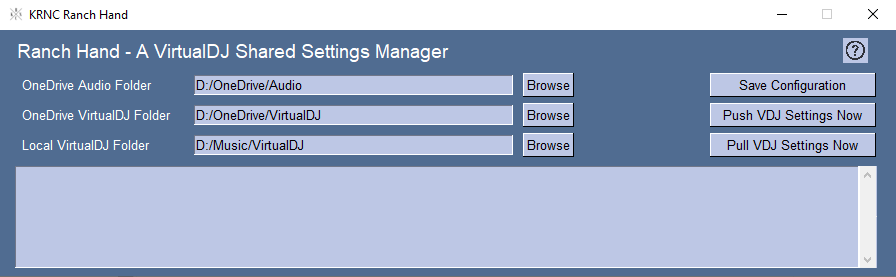
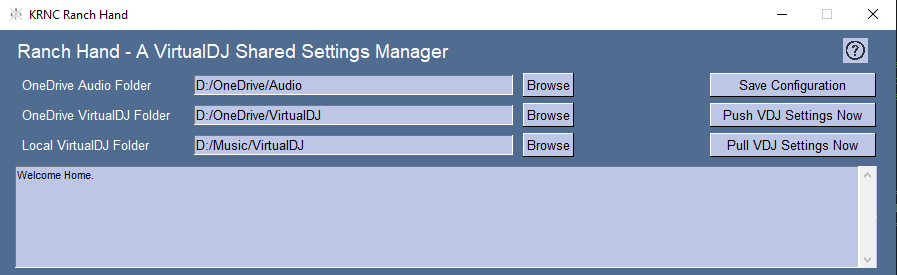
updated app image, added 'Welcome Home.' printout

diff --git a/RanchHand/app.py b/RanchHand/app.py
@@ -108,6 +108,8 @@ window = sg.Window('KRNC Ranch Hand', mainlayout, icon=icon)
 def app():
     global window
     window.finalize()
+    # Print KRNC Welcome Message
+    print("Welcome Home.")
     # Test for Valid Configuration File
     if not config.sections():
         print("No valid Ranch Hand configuration file...",

diff --git a/RanchHand/README.md b/RanchHand/README.md
@@ -36,6 +36,7 @@ and as such, the installer will perform the folder construction that is required
             └─── KRNC
                  └─── RanchHand
                       ├─── RanchHand.exe
+                      ├─── RanchHandService.exe
                       │
                       └─── images
                            ├─── help.png
@@ -70,8 +71,8 @@ below.
 | Control Feature       | Description                                                                                                                                                          | Automated Service Restart? |
 |-----------------------|----------------------------------------------------------------------------------------------------------------------------------------------------------------------|----------------------------|
 | Save Configuration    | Saves the configured directory locations, restarts the RanchHand service to appropriately monitor for changes.                                                       | Yes                        |
-| Push VDJ Settings Now | Push the VirtualDJ settings from the local storage folder to the remote cloud drive service folder with generic string replacement.                                  | No                         |
-| Pull VDJ Settings Now | Pull the VirtualDJ settings from the remote cloud service folder to the local storage folder replacing generic strings with the appropriate local folder references. | No                         |
+| Push VDJ Settings Now | Push the VirtualDJ settings from the local storage folder to the remote cloud drive service folder with generic string replacement.                                  | No, not needed             |
+| Pull VDJ Settings Now | Pull the VirtualDJ settings from the remote cloud service folder to the local storage folder replacing generic strings with the appropriate local folder references. | No, not needed             |
 
 ---
 
